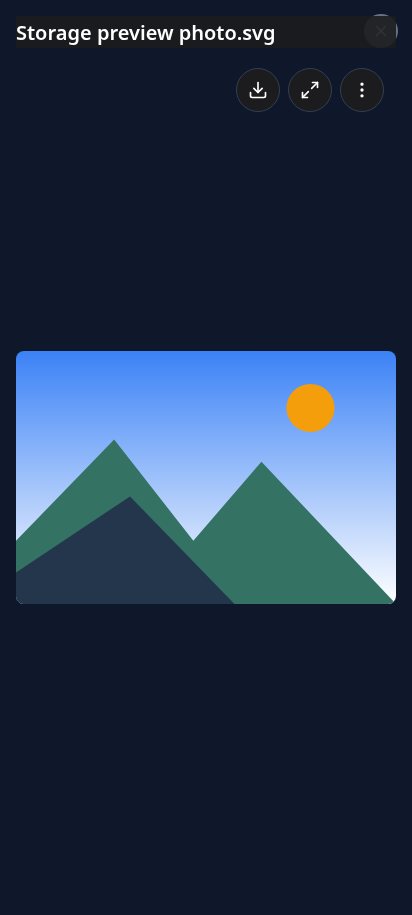
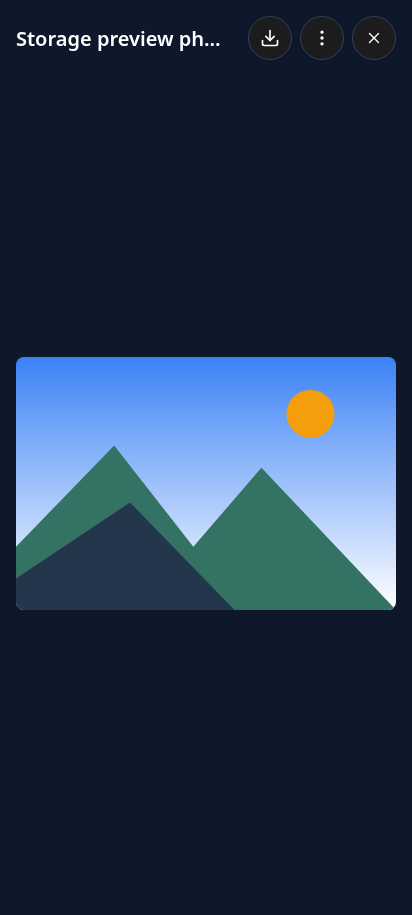
fix(storage): align controls in single row with close button and remove mobile fullscreen

diff --git a/frontend/src/styles/guest-meetings-and-final-overrides.css b/frontend/src/styles/guest-meetings-and-final-overrides.css
@@ -2135,29 +2135,23 @@ button.minimized-call-button--end:active:not(:disabled) {
   .storage-page.has-storage-selection > .app-nav { display: none !important; }
   .storage-page .storage-preview-backdrop { background: var(--background-primary, #0d1117) !important; inset: 0 !important; margin: 0 !important; padding: 0 !important; place-items: stretch !important; z-index: 1000 !important; }
   .storage-page .storage-preview-dialog, .storage-page .storage-preview-dialog.is-expanded { background: var(--background-primary, #0d1117) !important; border: 0 !important; border-radius: 0 !important; box-shadow: none !important; box-sizing: border-box !important; display: grid !important; gap: 8px !important; grid-template-rows: auto minmax(0, 1fr) !important; height: 100dvh !important; inset: 0 !important; margin: 0 !important; max-height: 100dvh !important; max-width: 100vw !important; min-height: 100dvh !important; overflow: hidden !important; padding: max(16px, env(safe-area-inset-top, 16px)) 16px max(16px, env(safe-area-inset-bottom, 16px)) 16px !important; position: fixed !important; width: 100vw !important; }
-  .storage-page .storage-preview-dialog .storage-preview, .storage-page .storage-preview-dialog .storage-preview-frame { display: flex !important; flex-direction: column !important; height: 100% !important; max-height: 100% !important; max-width: 100% !important; min-height: 0 !important; padding: 0 !important; width: 100% !important; }
-  .storage-page .storage-preview-dialog .storage-preview-media { align-items: center !important; display: flex !important; flex: 1 1 auto !important; height: 100% !important; justify-content: center !important; max-height: 100% !important; max-width: 100% !important; min-height: 0 !important; position: relative !important; width: 100% !important; }
-  .storage-page .storage-preview-dialog .storage-preview-media > img { height: auto !important; max-height: 100% !important; max-width: 100% !important; object-fit: contain !important; width: auto !important; }
+  .storage-page .storage-preview-dialog .storage-preview, .storage-page .storage-preview-dialog .storage-preview-frame { display: flex !important; flex-direction: column !important; height: 100% !important; max-height: 100% !important; max-width: 100% !important; min-height: 0 !important; padding: 0 !important; position: static !important; width: 100% !important; }
+  .storage-page .storage-preview-dialog .storage-preview-media { align-items: center !important; display: flex !important; flex: 1 1 auto !important; height: 100% !important; justify-content: center !important; max-height: 100% !important; max-width: 100% !important; min-height: 0 !important; position: static !important; width: 100% !important; }
+  .storage-page .storage-preview-dialog .storage-preview-media > img { cursor: default !important; height: auto !important; max-height: 100% !important; max-width: 100% !important; object-fit: contain !important; width: auto !important; }
   .storage-page .storage-preview-dialog .storage-preview-media > .video-player { max-height: 100% !important; max-width: 100% !important; width: 100% !important; }
+  .storage-page .storage-preview-dialog .storage-mobile-detail-header { align-items: center !important; background: transparent !important; display: flex !important; min-height: 44px !important; padding: 0 172px 0 0 !important; pointer-events: none !important; position: relative !important; z-index: 4 !important; }
+  .storage-page .storage-preview-dialog .storage-mobile-detail-header h2 { pointer-events: auto !important; }
+  .storage-page .storage-preview-actions { align-items: center !important; display: flex !important; gap: 8px !important; height: 44px !important; justify-content: flex-end !important; pointer-events: auto !important; position: absolute !important; right: 68px !important; top: max(16px, env(safe-area-inset-top, 16px)) !important; z-index: 6 !important; }
+  .storage-page .storage-preview-fullscreen-btn { display: none !important; }
+  .storage-page .storage-preview-dialog .popup-close { align-items: center !important; background: var(--surface-card) !important; border: 1px solid var(--border-default) !important; border-radius: var(--radius-circle) !important; box-shadow: none !important; color: var(--text-primary) !important; cursor: pointer !important; display: inline-flex !important; height: 44px !important; justify-content: center !important; min-height: 44px !important; min-width: 44px !important; padding: 0 !important; pointer-events: auto !important; position: absolute !important; right: 16px !important; top: max(16px, env(safe-area-inset-top, 16px)) !important; width: 44px !important; z-index: 6 !important; }
+  .storage-page .storage-preview-dialog .popup-close:hover { background: var(--surface-raised) !important; border-color: var(--accent-primary) !important; }
 }
 
 .storage-page .storage-layout { position: relative; }
 .storage-page .storage-layout.storage-layout--source-collapsed .sidebar-collapse-button { left: -20px; }
-.storage-page .storage-layout:not(.storage-layout--source-collapsed) {
-  column-gap: 0;
-  grid-template-columns: var(--storage-source-width, 300px) 12px minmax(0, 1fr);
-}
-.storage-page .storage-layout.storage-layout--source-collapsed {
-  column-gap: 0;
-  grid-template-columns: 36px 12px minmax(0, 1fr);
-  max-width: none;
-  overflow: visible;
-}
-.storage-page:has(.storage-tile.selected) .storage-layout.storage-layout--source-collapsed {
-  column-gap: 0;
-  grid-template-columns: 36px 12px minmax(0, 1fr);
-}
-.storage-page .storage-layout:not(.storage-layout--source-collapsed) { margin: 0; max-width: none; min-width: 0; width: 100%; }
+.storage-page .storage-layout:not(.storage-layout--source-collapsed) { column-gap: 0; grid-template-columns: var(--storage-source-width, 300px) 12px minmax(0, 1fr); margin: 0; max-width: none; min-width: 0; width: 100%; }
+.storage-page .storage-layout.storage-layout--source-collapsed { column-gap: 0; grid-template-columns: 36px 12px minmax(0, 1fr); max-width: none; overflow: visible; }
+.storage-page:has(.storage-tile.selected) .storage-layout.storage-layout--source-collapsed { column-gap: 0; grid-template-columns: 36px 12px minmax(0, 1fr); }
 .storage-page .storage-source-sidebar { min-width: 0; }
 .storage-page .storage-layout.storage-layout--source-collapsed .storage-source-sidebar {
   align-self: stretch;

diff --git a/frontend/src/pages/FilesPage.tsx b/frontend/src/pages/FilesPage.tsx
@@ -837,11 +837,13 @@ export default function FilesPage() {
                   {accessToken && <button type="button" aria-label={strings.files.download} title={strings.files.download} onClick={() => void saveFileToDisk(accessToken, selectedFile)}><Download aria-hidden="true" size={20} /></button>}
                   <button
                     type="button"
+                    className="storage-preview-fullscreen-btn"
                     aria-label={strings.files.fullScreen}
                     aria-pressed={isPreviewExpanded}
                     title={strings.files.fullScreen}
                     onClick={() => {
-                      if (fileKind(selectedFile) === "photos" && selectedFilePreviewUrl) {
+                      const isMobileViewport = typeof window !== "undefined" && window.matchMedia?.("(max-width: 1024px)").matches;
+                      if (!isMobileViewport && fileKind(selectedFile) === "photos" && selectedFilePreviewUrl) {
                         setFullViewImage({ file: selectedFile, previewUrl: selectedFilePreviewUrl });
                       }
                       setIsPreviewExpanded((expanded) => !expanded);
@@ -872,22 +874,24 @@ export default function FilesPage() {
                     key={selectedFile.id}
                     src={selectedFilePreviewUrl}
                     alt={selectedFile.originalName}
-                    role={fileKind(selectedFile) === "photos" ? "button" : undefined}
-                    tabIndex={fileKind(selectedFile) === "photos" ? 0 : undefined}
+                    role={typeof window !== "undefined" && !window.matchMedia?.("(max-width: 1024px)").matches && fileKind(selectedFile) === "photos" ? "button" : undefined}
+                    tabIndex={typeof window !== "undefined" && !window.matchMedia?.("(max-width: 1024px)").matches && fileKind(selectedFile) === "photos" ? 0 : undefined}
                     onClick={() => {
-                      if (fileKind(selectedFile) === "photos" && selectedFilePreviewUrl) {
+                      const isMobileViewport = typeof window !== "undefined" && window.matchMedia?.("(max-width: 1024px)").matches;
+                      if (!isMobileViewport && fileKind(selectedFile) === "photos" && selectedFilePreviewUrl) {
                         setFullViewImage({ file: selectedFile, previewUrl: selectedFilePreviewUrl });
                       }
                     }}
                     onKeyDown={(event) => {
-                      if (fileKind(selectedFile) === "photos" && selectedFilePreviewUrl && (event.key === "Enter" || event.key === " ")) {
+                      const isMobileViewport = typeof window !== "undefined" && window.matchMedia?.("(max-width: 1024px)").matches;
+                      if (!isMobileViewport && fileKind(selectedFile) === "photos" && selectedFilePreviewUrl && (event.key === "Enter" || event.key === " ")) {
                         event.preventDefault();
                         setFullViewImage({ file: selectedFile, previewUrl: selectedFilePreviewUrl });
                       }
                     }}
                     style={{
                       ...storagePreviewVideoStyle(previewImageSize.fileId === selectedFile.id ? previewImageSize.width : 16, previewImageSize.fileId === selectedFile.id ? previewImageSize.height : 9, window.innerWidth, window.innerHeight, isPreviewExpanded),
-                      cursor: fileKind(selectedFile) === "photos" ? "pointer" : undefined,
+                      cursor: typeof window !== "undefined" && !window.matchMedia?.("(max-width: 1024px)").matches && fileKind(selectedFile) === "photos" ? "pointer" : undefined,
                     }}
                     onLoad={(event) => setPreviewImageSize({ fileId: selectedFile.id, width: event.currentTarget.naturalWidth, height: event.currentTarget.naturalHeight })}
                   />

diff --git a/frontend/src/pages/FilesPage.storage-preview.test.ts b/frontend/src/pages/FilesPage.storage-preview.test.ts
@@ -101,5 +101,13 @@ describe("storage mobile fullscreen preview layout and metadata containment", ()
     expect(styles).not.toMatch(/\.storage-mobile-detail-header\s*\{[^}]*margin:\s*-[0-9]+px/);
     expect(styles).not.toMatch(/\.storage-mobile-detail-header\s*\{[^}]*top:\s*-[0-9]+px/);
   });
+
+  it("aligns control buttons on the same row with the close button and hides fullscreen expansion on mobile", () => {
+    expect(styles).toMatch(/@media[^{]*\(max-width:\s*1024px\)[\s\S]*?\.storage-page\s+\.storage-preview-fullscreen-btn\s*\{[^}]*display:\s*none\s*!important/);
+    expect(styles).toMatch(/@media[^{]*\(max-width:\s*1024px\)[\s\S]*?\.storage-page\s+\.storage-preview-actions\s*\{[^}]*position:\s*absolute\s*!important/);
+    expect(styles).toMatch(/@media[^{]*\(max-width:\s*1024px\)[\s\S]*?\.storage-page\s+\.storage-preview-actions\s*\{[^}]*right:\s*68px\s*!important/);
+    expect(styles).toMatch(/@media[^{]*\(max-width:\s*1024px\)[\s\S]*?\.storage-page\s+\.storage-preview-dialog\s+\.popup-close\s*\{[^}]*width:\s*44px\s*!important/);
+    expect(styles).toMatch(/@media[^{]*\(max-width:\s*1024px\)[\s\S]*?\.storage-page\s+\.storage-preview-dialog\s+\.storage-mobile-detail-header\s*\{[^}]*padding:\s*0\s+172px/);
+  });
 });
 

diff --git a/frontend/src/pages/FilesPage.preview.test.tsx b/frontend/src/pages/FilesPage.preview.test.tsx
@@ -240,5 +240,27 @@ describe("Storage file preview", () => {
     expect(titleH2?.textContent).toBe(longName);
     expect(titleH2?.getAttribute("title")).toBe(longName);
   });
+
+  it("does not enlarge or open ImageLightbox on mobile viewports", async () => {
+    Object.defineProperty(window, "matchMedia", {
+      configurable: true,
+      value: vi.fn((query: string) => ({
+        matches: query.includes("max-width: 1024px"),
+        addEventListener: vi.fn(),
+        removeEventListener: vi.fn(),
+      })),
+    });
+
+    const host = await renderPage([file("photo-1", "Family photo.jpg", "chat-family", "Family chat")]);
+    await act(async () => host.querySelector<HTMLButtonElement>("[data-storage-file-id]")?.click());
+
+    expect(host.querySelector(".storage-preview-dialog")).not.toBeNull();
+    expect(host.querySelector('[data-testid="image-lightbox"]')).toBeNull();
+
+    const previewImg = host.querySelector<HTMLImageElement>(".storage-preview-media > img");
+    expect(previewImg).not.toBeNull();
+    await act(async () => previewImg?.click());
+    expect(host.querySelector('[data-testid="image-lightbox"]')).toBeNull();
+  });
 });
 

diff --git a/.okf/changes/current.md b/.okf/changes/current.md
@@ -2,5 +2,8 @@
 
 <!-- okf:generated:start -->
 Changed files:
+- `frontend/src/pages/FilesPage.tsx`
+- `frontend/src/pages/FilesPage.preview.test.tsx`
+- `frontend/src/pages/FilesPage.storage-preview.test.ts`
 - `frontend/src/styles/guest-meetings-and-final-overrides.css`
 <!-- okf:generated:end -->
